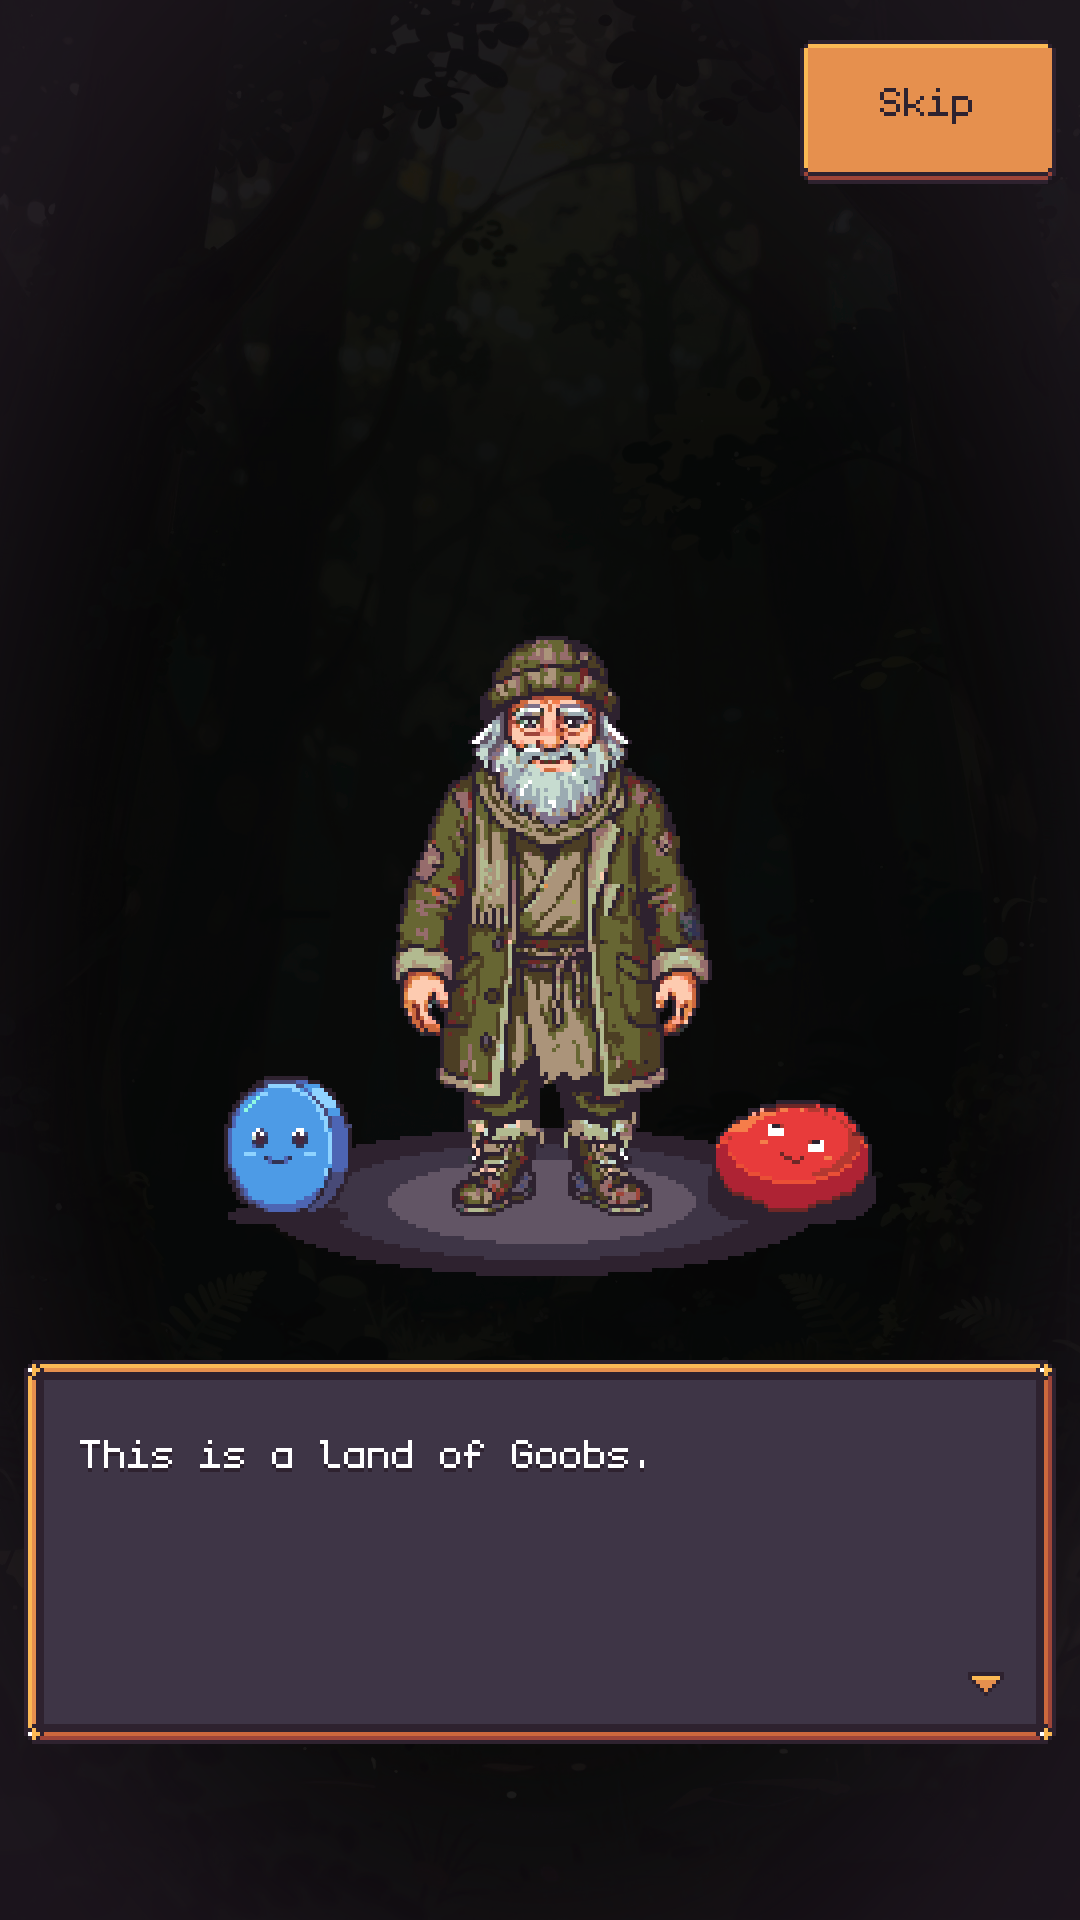
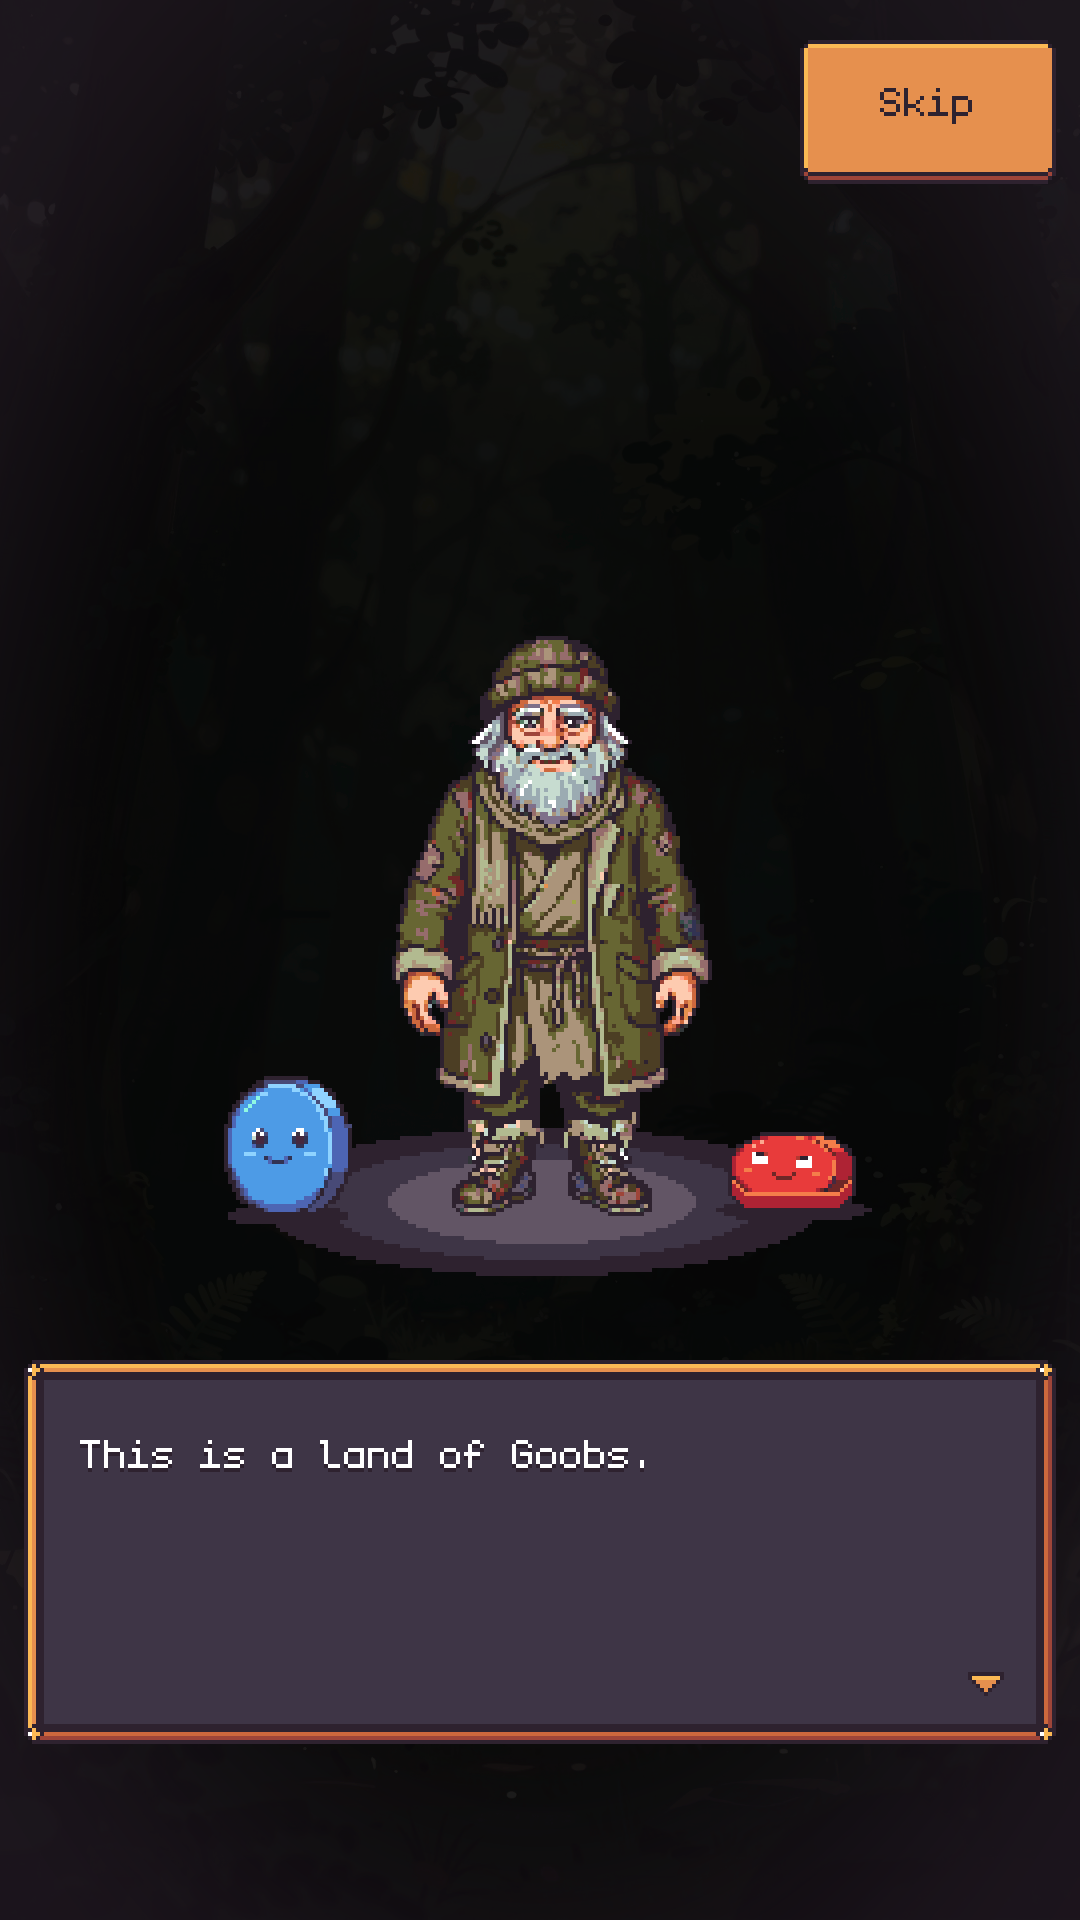
Art C: red intro Goob = blue Goob recoloured and tipped over in code (same outline)

Changed region(s): [[0.6417, 0.5625, 0.825, 0.6562]]

diff --git a/art/strange_man/goobs/make_red_tipped.py b/art/strange_man/goobs/make_red_tipped.py
@@ -1,0 +1,108 @@
+"""Red intro Goob = the blue one, recoloured and tipped over (Sean 2026-11-20: same black
+outline and rendering as the blue; no more PixelLab gens). No AI: pure pixel ops.
+
+raw_blue_edit.png -> quantise -> wipe its face -> recolour the blue ramp to the red ramp ->
+squash the rows to SQUASH (nearest) so the disc lies flat, face up; its rim, on the right in
+the blue, stays on the right, so it lies at an angle -> grow the rim THICK px down under the
+face (lit edge, mid, dark) -> fresh 1 px 2e222f outline round the whole thing -> ground
+shadow like the blue's -> face on top, tilted, eyes gazing up at the sky, relaxed smile, blush.
+Run: python art/strange_man/goobs/make_red_tipped.py -> raw_red_tipped.png"""
+import os
+import sys
+
+from PIL import Image
+
+HERE = os.path.dirname(os.path.abspath(__file__))
+sys.path.insert(0, os.path.join(HERE, "..", "..", "palette"))
+from resurrect64 import hexc, quantize  # noqa: E402
+
+SQUASH = 0.5
+THICK = 4
+INK = hexc("2e222f")
+RED = {k: hexc(v) for k, v in {"face": "e83b3b", "lit": "f57d4a", "mid": "ae2334",
+                                "dark": "6e2727", "shade": "b33831"}.items()}
+# blue ramp -> red ramp (same roles)
+RECOLOUR = {"4d9be6": "e83b3b", "4d65b4": "ae2334", "484a77": "6e2727", "8fd3ff": "f57d4a",
+            "8ff8e2": "fca790", "323353": "45293f", "3e3546": "45293f", "c7dcd0": "fca790"}
+FACE_JUNK = {"ffffff", "45293f", "323353", "3e3546", "c7dcd0", "4d65b4", "8fd3ff"}
+
+
+def hx(p):
+    return "%02x%02x%02x" % p[:3]
+
+
+def outline(im, alpha):
+    w, h = im.size
+    for y in range(h):
+        for x in range(w):
+            if alpha.getpixel((x, y)) and any(not (0 <= x + dx < w and 0 <= y + dy < h)
+                                              or not alpha.getpixel((x + dx, y + dy))
+                                              for dx, dy in ((1, 0), (-1, 0), (0, 1), (0, -1))):
+                im.putpixel((x, y), INK)
+
+
+def build():
+    blue = quantize(Image.open(os.path.join(HERE, "raw_blue_edit.png")))
+    disc = blue.crop((0, 0, 48, 38))  # rows 38+ are its ground shadow; redrawn below
+    px = disc.load()
+    for y in range(38):
+        for x in range(48):
+            p = px[x, y]
+            if not p[3]:
+                continue
+            h = hx(p)
+            if 14 <= x <= 33 and 16 <= y <= 27 and h in FACE_JUNK:
+                h = "4d9be6"  # wipe eyes, mouth, blush
+            px[x, y] = hexc(RECOLOUR.get(h, h))
+    disc = disc.crop(disc.getbbox())
+    w, fh = disc.width, round(disc.height * SQUASH)
+    h = fh + THICK
+    flat = Image.new("RGBA", (w, h), (0, 0, 0, 0))
+    for y in range(fh):
+        sy = min(disc.height - 1, int((y + 0.5) / SQUASH))
+        for x in range(w):
+            flat.putpixel((x, y), disc.getpixel((x, sy)))
+    # rim under the face: per column, below the face's lowest pixel
+    for x in range(w):
+        ys = [y for y in range(fh) if flat.getpixel((x, y))[3]]
+        if not ys:
+            continue
+        yb = ys[-1]
+        flat.putpixel((x, yb), RED["lit"])  # lit edge between face and rim
+        for i in range(1, THICK + 1):
+            flat.putpixel((x, yb + i), RED["dark"] if i == THICK else RED["mid"])
+    out = Image.new("RGBA", (48, 48), (0, 0, 0, 0))
+    ox, oy = (48 - w) // 2, 44 - h
+    for y in range(48):  # ground shadow (ink oval, like under the blue one)
+        for x in range(48):
+            if ((x - 24) / (w / 2 + 3)) ** 2 + ((y - (oy + h - 1)) / 3) ** 2 <= 1:
+                out.putpixel((x, y), INK)
+    out.alpha_composite(flat, (ox, oy))
+    a = Image.new("L", (48, 48), 0)
+    a.paste(flat.getchannel("A"), (ox, oy))
+    outline(out, a)
+    face(out, ox, oy, w, fh)
+    return out
+
+
+def face(im, ox, oy, w, fh):
+    W, D = (255, 255, 255, 255), INK
+    cx, cy = ox + w // 2 - 2, oy + fh // 2  # centre of the top face (rim is on the right)
+
+    def eye(x, y, left):
+        rows = [[W, D, D, RED["shade"]] if left else [RED["shade"], D, D, W], [W] * 4, [W] * 4]
+        for j, row in enumerate(rows):
+            for i, c in enumerate(row):
+                im.putpixel((x + i, y + j), c)
+    eye(cx - 8, cy - 3, True)  # tilted: the right eye sits lower (lying at an angle)
+    eye(cx + 3, cy - 2, False)
+    for dx, dy in ((-3, 2), (-2, 3), (-1, 3), (0, 3), (1, 3), (2, 2)):
+        im.putpixel((cx + dx, cy + dy), RED["dark"])
+    for dx, dy in ((-10, 1), (-9, 1), (7, 2), (8, 2)):
+        im.putpixel((cx + dx, cy + dy), RED["lit"])
+
+
+if __name__ == "__main__":
+    img = build()
+    img.save(os.path.join(HERE, "raw_red_tipped.png"))
+    print("wrote raw_red_tipped.png", img.getbbox())

diff --git a/art/strange_man/make_strange_man.py b/art/strange_man/make_strange_man.py
@@ -15,13 +15,11 @@ Bust portrait (HUD; drawn separately, Sean 2026-11-20): PixelLab create_portrait
 the other expressions are PixelLab edit_image text edits of it -> bust/raw_<expression>.png
 (well played = bust/raw_well_played2.png, the serious slight bow; Sean 2026-11-20).
 
-Intro Goobs (painted, in his world; Sean 2026-11-20): PixelLab create_image_pro 48x48 with
-his still as the style reference -> goobs/raw_red_0.png (flat, face up; eyes hand-edited to
-gaze up at the sky, relaxing -> goobs/raw_red_sky.png; then an edit_image turning it to lie at
-an angle -> goobs/raw_red_angle_0..3.png, #3 (Sean's pick, "variant 4") with pupils re-drawn at the top of its eyes ->
-goobs/raw_red_angle_fix.png; then bigger + crisper to match the blue one -> goobs/make_red_big.py
--> goobs/raw_red_big.png; Sean 2026-11-20); the blue one is an
-edit_image of that red one, stood on its edge -> goobs/raw_blue_edit.png.
+Intro Goobs (painted, in his world; Sean 2026-11-20): the blue one is a PixelLab edit_image
+of a create_image_pro 48x48 Goob (his still as the style reference), stood on its edge ->
+goobs/raw_blue_edit.png. The red one is that blue sprite recoloured and tipped over in code
+(lying flat at an angle, face up, gazing at the sky; Sean 2026-11-20) ->
+goobs/make_red_tipped.py -> goobs/raw_red_tipped.png.
 
 Outputs (final):
   assets/strange_man/full_body.png          96x160, feet on the bottom rows of the figure
@@ -101,7 +99,7 @@ def bust(name):
 
 
 def intro_goob(colour):
-    src = {"blue": "raw_blue_edit.png", "red": "raw_red_big.png"}[colour]
+    src = {"blue": "raw_blue_edit.png", "red": "raw_red_tipped.png"}[colour]
     return quantize(Image.open(os.path.join(HERE, "goobs", src)))
 
 
